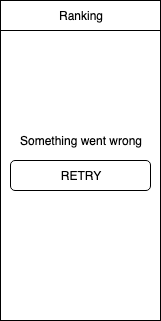
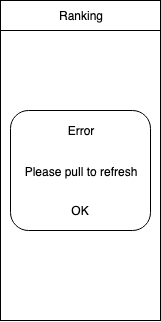
Fixes #74: Update README with wireframes (#79)

diff --git a/README.md b/README.md
@@ -74,8 +74,6 @@ Backend: `mockable.io`
 #### Wireframes
 ##### List
 ![Alt text](https://github.com/neutze/mobile-ios-app-cfw/blob/master/.whiteboard/wireframes/list.png?raw=true "Wireframe List")
-##### Loading
-![Alt text](https://github.com/neutze/mobile-ios-app-cfw/blob/master/.whiteboard/wireframes/loading.png?raw=true "Wireframe Loading")
 ##### Error
 ![Alt text](https://github.com/neutze/mobile-ios-app-cfw/blob/master/.whiteboard/wireframes/error.png?raw=true "Wireframe Error")
 #### Architecture
